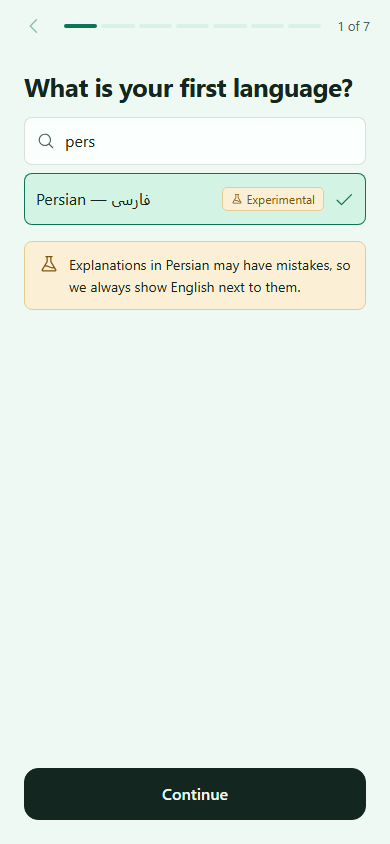
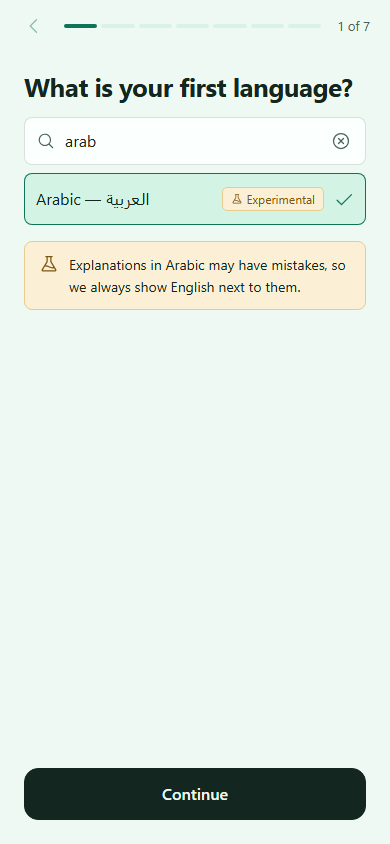
feat(web): Clear search button; raise the sign-in rate limit for classes
- The language and time zone search gets the clear button of frame A2-1b,
  named "Clear search" (HANDOFF_R1_REVIEW item 10, approved 2026-10-02).
- The auth rate limit goes from 10 to 100 per 10 minutes per IP, so a
  whole class can sign up at once behind one college IP (Q-PLT-2 change,
  approved 2026-10-02).

diff --git a/apps/web/src/ui/components/ListPicker.tsx b/apps/web/src/ui/components/ListPicker.tsx
@@ -1,6 +1,8 @@
 // No "use client": it always lives inside a client screen that owns the value.
-import { type KeyboardEvent, type ReactNode, useId, useMemo, useState } from "react";
-import { Check, MagnifyingGlass } from "../icons";
+import { type KeyboardEvent, type ReactNode, useId, useMemo, useRef, useState } from "react";
+import { Check, MagnifyingGlass, XCircle } from "../icons";
+import { strings } from "../strings";
+import { IconButton } from "./Button";
 import { Icon } from "./Icon";
 import styles from "./ListPicker.module.css";
 
@@ -26,6 +28,7 @@ type ListPickerProps = {
 /**
  * Search field with a list that is always open (frame A2-1; ARIA 1.2 combobox). The search
  * matches English and native names. Arrow keys move, Enter chooses, the chosen row shows a check.
+ * While there is text, a clear button empties the field and returns focus to it (frame A2-1b).
  */
 export function ListPicker({
   label,
@@ -37,6 +40,7 @@ export function ListPicker({
 }: ListPickerProps) {
   const [query, setQuery] = useState("");
   const [active, setActive] = useState(0);
+  const inputRef = useRef<HTMLInputElement>(null);
   const listId = useId();
   const optionId = (index: number) => `${listId}-${index}`;
 
@@ -73,6 +77,7 @@ export function ListPicker({
           aria-controls={listId}
           aria-activedescendant={visible.length > 0 ? optionId(active) : undefined}
           aria-autocomplete="list"
+          ref={inputRef}
           placeholder={placeholder}
           value={query}
           dir="auto"
@@ -83,6 +88,18 @@ export function ListPicker({
           onKeyDown={onKeyDown}
           className={styles.input}
         />
+        {query === "" ? null : (
+          <IconButton
+            icon={XCircle}
+            label={strings.common.clearSearch}
+            className={styles.clear}
+            onClick={() => {
+              setQuery("");
+              setActive(0);
+              inputRef.current?.focus();
+            }}
+          />
+        )}
       </div>
       {visible.length === 0 ? (
         <p role="status" className={styles.empty}>

diff --git a/packages/core/src/plt/settings.ts b/packages/core/src/plt/settings.ts
@@ -27,14 +27,15 @@ export type RateLimitRule = PltSettings["rateLimits"][RateLimitClass];
 
 /**
  * Pilot defaults, approved by the product owner on 2026-10-01 (Q-PLT-2), including the 04:00
- * study-day boundary; the rest of gate G07 is still open. They live here as configuration, apart
- * from the logic, and a deployment overrides any of them with PLT_SETTINGS_JSON without a code
- * change.
+ * study-day boundary; the rest of gate G07 is still open. On 2026-10-02 the owner raised `auth`
+ * from 10 to 100 per 10 minutes, so a whole class can sign up at once behind one college IP. They
+ * live here as configuration, apart from the logic, and a deployment overrides any of them with
+ * PLT_SETTINGS_JSON without a code change.
  */
 export const DEFAULT_PLT_SETTINGS: PltSettings = {
   idempotencyTtlSeconds: 24 * 60 * 60,
   rateLimits: {
-    auth: { limit: 10, windowSeconds: 600, scopes: ["ip"] },
+    auth: { limit: 100, windowSeconds: 600, scopes: ["ip"] },
     upload_url: { limit: 60, windowSeconds: 60, scopes: ["user"] },
     ai_start: { limit: 10, windowSeconds: 60, scopes: ["user"] },
     export: { limit: 20, windowSeconds: 3600, scopes: ["user"] },

diff --git a/apps/web/e2e/setup.spec.ts b/apps/web/e2e/setup.spec.ts
@@ -79,6 +79,21 @@ test("a learner who leaves comes back to the same step, and Back keeps the answe
   );
 });
 
+test("the clear button empties the search and gives the field its focus back", async ({ page }) => {
+  await signInAsNewLearner(page);
+  await page.goto("/setup");
+  const search = page.getByRole("combobox", { name: "What is your first language?" });
+  const clear = page.getByRole("button", { name: "Clear search" });
+  await expect(clear).toBeHidden();
+  await search.fill("zzz");
+  await expect(page.getByText("Check the spelling.")).toBeVisible();
+  await clear.click();
+  await expect(search).toHaveValue("");
+  await expect(search).toBeFocused();
+  await expect(clear).toBeHidden();
+  await expect(page.getByRole("option", { name: /Persian/ })).toBeVisible();
+});
+
 test("a finished setup is not shown again", async ({ page }) => {
   await signInAsNewLearner(page, { setup: "complete" });
   await page.goto("/setup");

diff --git a/apps/web/src/ui/strings.test.ts b/apps/web/src/ui/strings.test.ts
@@ -9,6 +9,8 @@ const handoff = resolve(import.meta.dirname, "../../../../docs/design/handoff-r1
 const APPROVED_DEVIATIONS: Record<string, string> = {
   "Skip to content": "HANDOFF_R1_REVIEW.md, item 7: accessibility.md asks for a skip link",
   "Sign out": "HANDOFF_R1_REVIEW.md, item 8: FR-ACC-002 needs sign-out; approved 2026-10-01",
+  "Clear search":
+    "HANDOFF_R1_REVIEW.md, item 10: names the clear button of frame A2-1b; approved 2026-10-02",
 };
 
 function decodeEntities(text: string): string {

diff --git a/apps/web/src/ui/components/ListPicker.module.css b/apps/web/src/ui/components/ListPicker.module.css
@@ -45,6 +45,18 @@
   outline: none;
 }
 
+/* The app's own clear button replaces the browser's. */
+.input::-webkit-search-cancel-button {
+  appearance: none;
+}
+
+/* Frame A2-1b: a muted ⊗ at the end of the field, inside its 48px height. */
+.clear {
+  flex: none;
+  margin-inline-end: -10px;
+  color: var(--rc-text-muted);
+}
+
 .list {
   display: flex;
   flex-direction: column;

diff --git a/apps/web/src/ui/strings.ts b/apps/web/src/ui/strings.ts
@@ -23,6 +23,7 @@ export const strings = {
     undo: "Undo",
     tryAgain: "Try again",
     confirmIrreversible: "I understand this can't be undone",
+    clearSearch: "Clear search",
   },
   classStatus: {
     readyToProcess: "Ready to process",

diff --git a/docs/plans/M3_ACC.md b/docs/plans/M3_ACC.md
@@ -223,10 +223,10 @@
 ### محدودیتها و کارهای باقیمانده
 
 - **T9، ورود واقعی با Google،** منتظر ساخت OAuth Client است ([راهنما](../runbooks/GOOGLE_OAUTH.md)). همه آزمونها با Auth محلیاند و Google در آنها صدا زده نمیشود.
-- **کنترل نرخ ورود در کلاس:** سقف فعلی ۱۰ تلاش در ۱۰ دقیقه برای هر IP است. اگر همه کلاس همزمان از اینترنت کالج ثبتنام کنند، از یک IP میآیند و بیشترشان رد میشوند. سقف با `PLT_SETTINGS_JSON` تغییر میکند؛ تصمیمش با مالک محصول است.
+- ~~**کنترل نرخ ورود در کلاس:** سقف ۱۰ تلاش در ۱۰ دقیقه برای هر IP، کلاسی را که همزمان از اینترنت کالج ثبتنام میکند رد میکرد.~~ *حل شد (2026-10-02): مالک محصول سقف را ۱۰۰ در ۱۰ دقیقه کرد (Q-PLT-2).*
 - **تب Me فعلاً مستقیم Settings است.** صفحه G1 (Progress) به داده مرور نیاز دارد و با SRS میآید. تا آن زمان پیکان بازگشت G3 نیست. بخشهای Review و Data در G3 هم با SRS و PRIV میآیند.
 - **Today فقط متن حالت خالی را دارد.** آیکون میکروفون و «Record a class» با REC (مرحله ۲) و «New class without recording» با ORG (M4) میآیند. تا آن زمان متن زیر عنوان است، نه وسط صفحه.
-- **دکمه پاک کردن جستوجو (⊗)** که در قاب A2.1 هست ساخته نشد، چون برچسب صفحهخوان آن در `copy.md` نیست.
+- ~~**دکمه پاک کردن جستوجو (⊗)** که در قاب A2.1 هست ساخته نشد، چون برچسب صفحهخوان آن در `copy.md` نیست.~~ *حل شد (2026-10-02): با برچسب «Clear search» ساخته شد ([بازبینی تحویل](../design/HANDOFF_R1_REVIEW.md)، بند ۱۰).*
 - **Firefox** داده کشور منطقه زمانی را ندارد؛ آنجا کارت فقط نام شهر را نشان میدهد.
 - **پاکسازی نیتهای ثبتنام منقضی:** تابعش (`purgeExpiredSignupIntents`) آماده است، ولی کار زمانبندیشده با صف کارها (FR-PLT-005، M4) وصل میشود.
 - **متنهای حقوقی پیشنویس ۰٫۱اند.** نام اپراتور تا G11 با علامت ⟨…⟩ نمایش داده میشود.

diff --git a/docs/design/HANDOFF_R1_REVIEW.md b/docs/design/HANDOFF_R1_REVIEW.md
@@ -45,6 +45,7 @@
 7. **متن skip link:** «Skip to content». `accessibility.md` در صفحه Today یک skip link میخواهد، ولی متنش در `copy.md` و قابها نیست (M2، 2026-10-01).
 8. **دکمه «Sign out»:** طرح جایی برای خروج ندارد، ولی FR-ACC-002 آن را لازم دارد. دکمه secondary در پایین Settings (G3) قرار میگیرد (مصوب مالک محصول، 2026-10-01).
 9. **کشور در کارت منطقه زمانی (A2.6):** نام کشور، مثل «London (UK)»، از داده خود مرورگر میآید، چون اپ داده منطقه زمانی همراه ندارد (D31 قاعده ۸). Firefox این داده را ندارد؛ آنجا فقط نام شهر نمایش داده میشود (M3، 2026-10-01).
+10. **برچسب دکمه پاک کردن جستوجو:** «Clear search». قاب A2-1b دکمه ⊗ را دارد، ولی برچسب صفحهخوانش در `copy.md` نیست (مصوب مالک محصول، 2026-10-02).
 
 ## قواعد اجرای طرح (خلاصه HANDOFF بخش ۰ تا ۵)
 
@@ -52,7 +53,7 @@
   - tokenها از `recalino/tokens.css` و لایه پایه از `handoff/css/nocturne-base.css`، بدون تغییر کپی میشوند.
   - ترتیب بارگذاری: base، سپس tokens، سپس CSS اپ.
 - **فایلهای `.dc.html` مشخصات پیکسلیاند.** هر صفحه کنار قاب خودش، در ۳۹۰ و ۱۴۴۰ پیکسل، بررسی میشود.
-- **متن رابط** کلمهبهکلمه از `handoff/copy.md` میآید، در یک فایل متن واحد. استثناها فقط تفاوتهای بند ۱، ۶، ۷ و ۸ بالاست.
+- **متن رابط** کلمهبهکلمه از `handoff/copy.md` میآید، در یک فایل متن واحد. استثناها فقط تفاوتهای بند ۱، ۶، ۷، ۸ و ۱۰ بالاست.
 - **کامپوننتها** طبق `handoff/components.md`، و دسترسپذیری طبق `handoff/accessibility.md`.
 - **آیکون:** فقط `@phosphor-icons/react`. نصبش در milestone پایه UI، با تأیید مالک محصول، انجام میشود.
 - **کتابخانه UI با ظاهر خودش ممنوع است** (مثل MUI یا تم پیشفرض shadcn). کتابخانه بدون ظاهر (headless) فقط با تأیید مالک محصول اضافه میشود.

diff --git a/docs/fr/PLT.md b/docs/fr/PLT.md
@@ -429,5 +429,5 @@ PLT زیرساخت مشترک و امنی است که همه ماژولهای
 | # | پرسش | حل در |
 |---|---|---|
 | Q-PLT-1 | ماتریس نهایی مرورگر و سیستمعامل | SPIKE-01، G04 |
-| Q-PLT-2 | مقادیر پیشفرض کنترل نرخ، عمر لینک امضاشده و مدت نگهداری کلید idempotency | ✅ **پاسخ (2026-10-01):** مقادیر پیشفرض `packages/core/src/plt/settings.ts` برای پایلوت مصوباند. عمر لینک امضاشده همراه FR-PLT-008 تعیین میشود. |
+| Q-PLT-2 | مقادیر پیشفرض کنترل نرخ، عمر لینک امضاشده و مدت نگهداری کلید idempotency | ✅ **پاسخ (2026-10-01):** مقادیر پیشفرض `packages/core/src/plt/settings.ts` برای پایلوت مصوباند. عمر لینک امضاشده همراه FR-PLT-008 تعیین میشود. **تغییر (2026-10-02):** سقف ورود (`auth`) از ۱۰ به ۱۰۰ تلاش در ۱۰ دقیقه برای هر IP رسید، تا کل کلاس بتواند همزمان از اینترنت کالج ثبتنام کند. |
 | Q-PLT-3 | آیا باز شدن آفلاین پوسته برای بازیابی ضبط لازم و در ماتریس هدف ممکن است؟ | SPIKE-01 |
